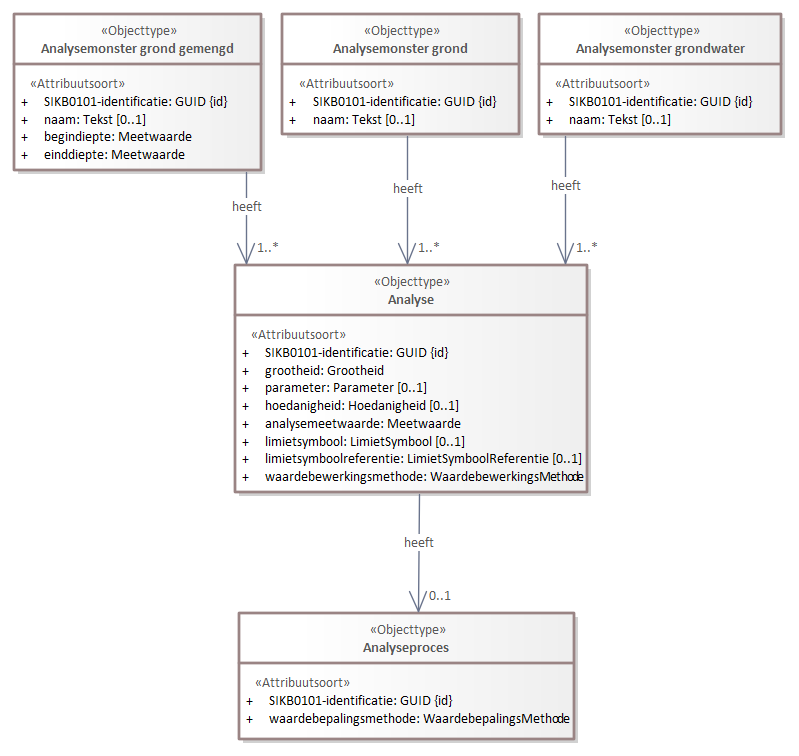
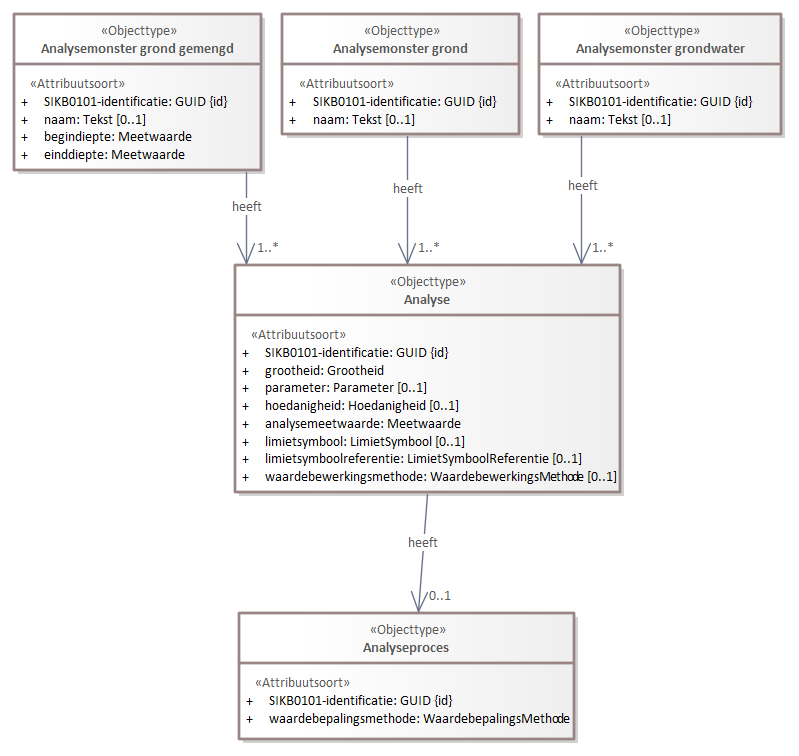
Conceptualmodel-MilieuhygienischbodemonderzoekSAD-1.09-1-20231205-20240604-105258

Changed region(s): [[0.6909, 0.1825, 0.781, 0.6693], [0.4806, 0.3651, 0.5707, 0.4259], [0.5106, 0.6693, 0.5407, 0.8214]]

diff --git a/data/SAD-cat.msword.html b/data/SAD-cat.msword.html
@@ -15,7 +15,7 @@
    <body>
       <p>Conceptual model/Milieuhygienisch bodemonderzoek SAD/20231205</p>
       <p>Imvertor: Nightly-build.14</p>
-      <p>Model release: Conceptualmodel-MilieuhygienischbodemonderzoekSAD-1.09-1-20231205-20240604-104626</p>
+      <p>Model release: Conceptualmodel-MilieuhygienischbodemonderzoekSAD-1.09-1-20231205-20240604-105258</p>
       <hr>
       <section>
          <h1>Artikel 1 Definitie van registratieobject, entiteiten en attributen</h1>
@@ -941,7 +941,7 @@
                         </tbody>
                      </table>
                      </section>
-                  <section id="detail_d106456e4887">
+                  <section id="detail_d106519e4887">
                      <h4>  registratiegeschiedenis</h4>
                      <table style="width: 100%;">
                         <colgroup style="width: 30%;"></colgroup>
@@ -989,7 +989,7 @@
                         </tbody>
                      </table>
                   </section>
-                  <section id="detail_d106456e5115">
+                  <section id="detail_d106519e5115">
                      <h4>  gestandaardiseerde locatie</h4>
                      <table style="width: 100%;">
                         <colgroup style="width: 30%;"></colgroup>
@@ -1034,7 +1034,7 @@
                         </tbody>
                      </table>
                   </section>
-                  <section id="detail_d106456e5343">
+                  <section id="detail_d106519e5343">
                      <h4>  rapport</h4>
                      <table style="width: 100%;">
                         <colgroup style="width: 30%;"></colgroup>
@@ -2535,7 +2535,7 @@
                         </tbody>
                      </table>
                      </section>
-                  <section id="detail_d106456e11018">
+                  <section id="detail_d106519e11018">
                      <h4>  aangeleverde verticale positie</h4>
                      <table style="width: 100%;">
                         <colgroup style="width: 30%;"></colgroup>
@@ -3491,7 +3491,7 @@
                         </tbody>
                      </table>
                      </section>
-                  <section id="detail_d106456e14128">
+                  <section id="detail_d106519e14128">
                      <h4>  grond</h4>
                      <table style="width: 100%;">
                         <colgroup style="width: 30%;"></colgroup>
@@ -3534,7 +3534,7 @@
                         </tbody>
                      </table>
                   </section>
-                  <section id="detail_d106456e14360">
+                  <section id="detail_d106519e14360">
                      <h4>  kleurwaarneming</h4>
                      <table style="width: 100%;">
                         <colgroup style="width: 30%;"></colgroup>
@@ -3568,7 +3568,7 @@
                         </tbody>
                      </table>
                   </section>
-                  <section id="detail_d106456e14545">
+                  <section id="detail_d106519e14545">
                      <h4>  bijzonder bestanddeel</h4>
                      <table style="width: 100%;">
                         <colgroup style="width: 30%;"></colgroup>
@@ -5363,7 +5363,7 @@
                         </tbody>
                      </table>
                      </section>
-                  <section id="detail_d106456e21542">
+                  <section id="detail_d106519e21542">
                      <h4>  aangeleverde verticale positie</h4>
                      <table style="width: 100%;">
                         <colgroup style="width: 30%;"></colgroup>
@@ -5836,7 +5836,7 @@
                         </tbody>
                      </table>
                      </section>
-                  <section id="detail_d106456e23379">
+                  <section id="detail_d106519e23379">
                      <h4>  kleurwaarneming</h4>
                      <table style="width: 100%;">
                         <colgroup style="width: 30%;"></colgroup>
@@ -6791,12 +6791,19 @@
                               <td>Attribuut van Analyse</td>
                            </tr>
                            <tr>
+                              <th>Definitie</th>
+                              <td>
+                                 
+                                 <p>Aanduiding van de manier waarop een reeks meetwaarden (rekenkundig) bewerkt zijn.</p>
+                                 </td>
+                           </tr>
+                           <tr>
                               <th>Juridische status</th>
                               <td>Authentiek</td>
                            </tr>
                            <tr>
                               <th>Kardinaliteit</th>
-                              <td>1</td>
+                              <td>0..1</td>
                            </tr>
                            <tr>
                               <th>Domein</th>
@@ -44102,19 +44109,20 @@
                         <ol>
                            
                            <li>
-                              <b>Waarde</b>: </li>
+                              <b>Waarde</b>: De waarde in leesbare tekst die de gebruiker informatie geeft over het gegeven.
+                              </li>
                            
                            <li>
-                              <b>SIKB0101ID</b>: </li>
+                              <b>SIKB0101ID</b>: Het unieke ID van deze waarde in de SIKB0101 domeinwaarde lijst</li>
                            
                            <li>
-                              <b>IMBRO</b>: </li>
+                              <b>IMBRO</b>: Geeft aan of de waarde onder IMBRO geldig is. </li>
                            
                            <li>
-                              <b>IMBRO/A</b>: </li>
+                              <b>IMBRO/A</b>: Geeft aan of de waarde onder IMBRO/A geldig is. </li>
                            
                            <li>
-                              <b>Omschrijving</b>: </li>
+                              <b>Omschrijving</b>: De omschrijving van de domeinwaarde. </li>
                            </ol>
                         
                         </td>

diff --git a/data/SAD-cat.respec.html b/data/SAD-cat.respec.html
@@ -917,7 +917,7 @@
                </tbody>
             </table>
             </section>
-         <section id="detail_d106456e4887">
+         <section id="detail_d106519e4887">
             <h4>  registratiegeschiedenis</h4>
             <table style="width: 100%;">
                <colgroup style="width: 30%;"></colgroup>
@@ -965,7 +965,7 @@
                </tbody>
             </table>
          </section>
-         <section id="detail_d106456e5115">
+         <section id="detail_d106519e5115">
             <h4>  gestandaardiseerde locatie</h4>
             <table style="width: 100%;">
                <colgroup style="width: 30%;"></colgroup>
@@ -1010,7 +1010,7 @@
                </tbody>
             </table>
          </section>
-         <section id="detail_d106456e5343">
+         <section id="detail_d106519e5343">
             <h4>  rapport</h4>
             <table style="width: 100%;">
                <colgroup style="width: 30%;"></colgroup>
@@ -2511,7 +2511,7 @@
                </tbody>
             </table>
             </section>
-         <section id="detail_d106456e11018">
+         <section id="detail_d106519e11018">
             <h4>  aangeleverde verticale positie</h4>
             <table style="width: 100%;">
                <colgroup style="width: 30%;"></colgroup>
@@ -3467,7 +3467,7 @@
                </tbody>
             </table>
             </section>
-         <section id="detail_d106456e14128">
+         <section id="detail_d106519e14128">
             <h4>  grond</h4>
             <table style="width: 100%;">
                <colgroup style="width: 30%;"></colgroup>
@@ -3510,7 +3510,7 @@
                </tbody>
             </table>
          </section>
-         <section id="detail_d106456e14360">
+         <section id="detail_d106519e14360">
             <h4>  kleurwaarneming</h4>
             <table style="width: 100%;">
                <colgroup style="width: 30%;"></colgroup>
@@ -3544,7 +3544,7 @@
                </tbody>
             </table>
          </section>
-         <section id="detail_d106456e14545">
+         <section id="detail_d106519e14545">
             <h4>  bijzonder bestanddeel</h4>
             <table style="width: 100%;">
                <colgroup style="width: 30%;"></colgroup>
@@ -5339,7 +5339,7 @@
                </tbody>
             </table>
             </section>
-         <section id="detail_d106456e21542">
+         <section id="detail_d106519e21542">
             <h4>  aangeleverde verticale positie</h4>
             <table style="width: 100%;">
                <colgroup style="width: 30%;"></colgroup>
@@ -5812,7 +5812,7 @@
                </tbody>
             </table>
             </section>
-         <section id="detail_d106456e23379">
+         <section id="detail_d106519e23379">
             <h4>  kleurwaarneming</h4>
             <table style="width: 100%;">
                <colgroup style="width: 30%;"></colgroup>
@@ -6767,12 +6767,19 @@
                      <td>Attribuut van Analyse</td>
                   </tr>
                   <tr>
+                     <th>Definitie</th>
+                     <td>
+                        
+                        <p>Aanduiding van de manier waarop een reeks meetwaarden (rekenkundig) bewerkt zijn.</p>
+                        </td>
+                  </tr>
+                  <tr>
                      <th>Juridische status</th>
                      <td>Authentiek</td>
                   </tr>
                   <tr>
                      <th>Kardinaliteit</th>
-                     <td>1</td>
+                     <td>0..1</td>
                   </tr>
                   <tr>
                      <th>Domein</th>
@@ -44076,19 +44083,20 @@
                   <ol>
                      
                      <li>
-                        <b>Waarde</b>: </li>
+                        <b>Waarde</b>: De waarde in leesbare tekst die de gebruiker informatie geeft over het gegeven.
+                        </li>
                      
                      <li>
-                        <b>SIKB0101ID</b>: </li>
+                        <b>SIKB0101ID</b>: Het unieke ID van deze waarde in de SIKB0101 domeinwaarde lijst</li>
                      
                      <li>
-                        <b>IMBRO</b>: </li>
+                        <b>IMBRO</b>: Geeft aan of de waarde onder IMBRO geldig is. </li>
                      
                      <li>
-                        <b>IMBRO/A</b>: </li>
+                        <b>IMBRO/A</b>: Geeft aan of de waarde onder IMBRO/A geldig is. </li>
                      
                      <li>
-                        <b>Omschrijving</b>: </li>
+                        <b>Omschrijving</b>: De omschrijving van de domeinwaarde. </li>
                      </ol>
                   
                   </td>
